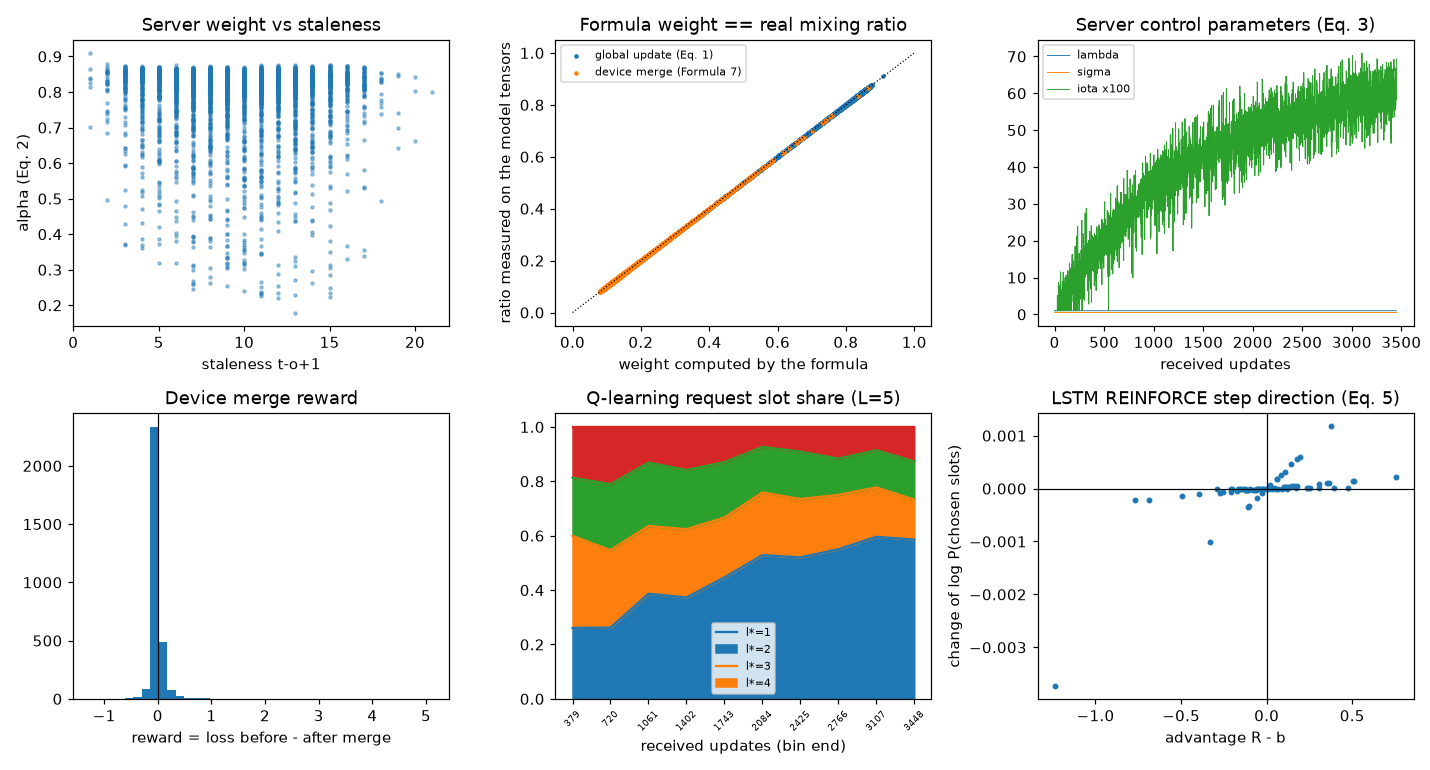
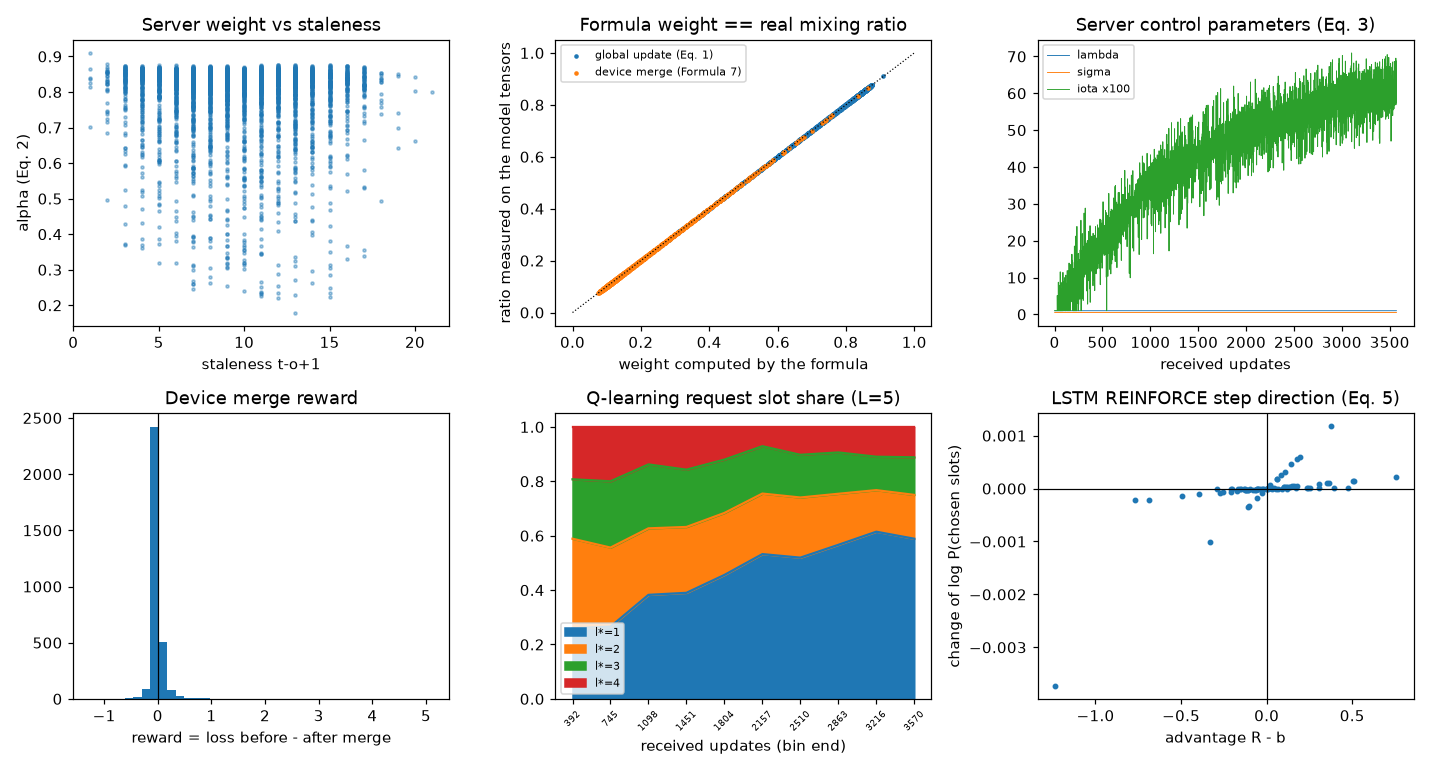
verify_fedasmu: fix Q-slot legend; refresh partial verification

diff --git a/scripts/verify_fedasmu.py b/scripts/verify_fedasmu.py
@@ -258,10 +258,12 @@ def figure(path, acc, m, q, mt, cfg):
         qq = q.copy()
         qq["bin"] = pd.cut(qq.received, 10)
         sh = qq.groupby("bin", observed=True).request_after.value_counts(normalize=True).unstack().fillna(0)
+        sh.columns = [f"l*={int(c)}" for c in sh.columns]
+        sh.index = [f"{int(b.right)}" for b in sh.index]
         sh.plot.area(ax=a, legend=True)
         a.set_xticks(range(len(sh)))
-        a.set_xticklabels([f"{int(b.right)}" for b in sh.index], fontsize=6, rotation=45)
-        a.legend([f"l*={int(c)}" for c in sh.columns], fontsize=7)
+        a.set_xticklabels(sh.index, fontsize=6, rotation=45)
+        a.legend(fontsize=7, loc="lower left")
     a.set_xlabel("received updates (bin end)")
     a.set_title(f"Q-learning request slot share (L={L})")
     a = ax[1, 2]

diff --git a/results/verification/partial_appendix_lenet5_cifar10_fedasmu_s0/report.md b/results/verification/partial_appendix_lenet5_cifar10_fedasmu_s0/report.md
@@ -1,30 +1,30 @@
 # Verification of appendix_lenet5_cifar10_fedasmu_s0
 
-Run status: RUNNING; 3450 logged updates. Result: **ALL CHECKS PASSED** (24/24).
+Run status: RUNNING; 3570 logged updates. Result: **ALL CHECKS PASSED** (24/24).
 
 | ID | Check | Paper | Rows | Max error | Tolerance | Result | Note |
 |---|---|---|---|---|---|---|---|
-| S1 | staleness tau = t - o + 1 | Algorithm 1 l.9 | 3450 | 0.0e+00 | 0e+00 | PASS |  |
-| S2 | update discarded iff tau > 99 | Algorithm 1 l.9-10 | 3450 |  |  | PASS | discarded: 0 |
-| S3 | xi = lam/(sqrt(t)(t-o+1)^sig) + iota | Eq. 2 | 3450 | 0.0e+00 | 1e-09 | PASS |  |
-| S4 | alpha = mu*xi/(1+mu*xi) | Eq. 2 | 3450 | 0.0e+00 | 1e-09 | PASS |  |
-| S5 | global model w_{t+1} = (1-alpha) w_t + alpha w_i, measured on the tensors: |w_{t+1}-w_t|/|w_i-w_t| = alpha | Eq. 1 | 3450 | 1.3e-06 | 1e-04 | PASS | max relative residual of the whole parameter vector 0.0e+00 |
-| S6 | dF/dlam, dF/dsig, dF/diota (chain rule through alpha) | Eq. 3 + appendix A | 3350 | 2.8e-17 | 1e-09 | PASS |  |
-| S7 | lam/sig/iota <- x - eta_x * dF/dx | Eq. 3 | 3350 | 0.0e+00 | 1e-09 | PASS | first upload of a device has no previous update: 100 rows, parameters unchanged (OK) |
-| S8 | per-device lam/sig: value before an upload == value after its previous upload; start at lam0/sig0 | Algorithm 1 (state per device) | 3450 | 0.0e+00 | 1e-12 | PASS |  |
-| D1 | request slot l* in 1..L-1 (L = 5) | Algorithm 2 l.4 | 3450 |  |  | PASS |  |
-| D2 | fresh model merged only if it is newer (g > o) | Algorithm 2 l.6-7 | 3055 |  |  | PASS | requests 3450, merged 3055, no newer model 395 |
-| D3 | phi = gamma/sqrt(g) * (1 - upsilon/sqrt(g-o+1)) | Formula 8 | 3055 | 0.0e+00 | 1e-09 | PASS |  |
-| D4 | beta = mu*phi/(1+mu*phi) | Formula 8 | 3055 | 0.0e+00 | 1e-09 | PASS |  |
-| D5 | local model after merge = (1-beta) w_local + beta w_g, measured on the tensors | Formula 7 | 3055 | 8.7e-08 | 1e-04 | PASS |  |
-| D6 | dF/dgamma, dF/dupsilon | Formula 9 + appendix A | 3055 | 1.4e-17 | 1e-09 | PASS |  |
-| D7 | gamma/upsilon <- x - eta_x * dF/dx | Formula 9 | 3055 | 0.0e+00 | 1e-09 | PASS |  |
-| D8 | per-device gamma: value before a merge == value after its previous merge; start at gamma0 | Algorithm 2 (device state) | 3055 | 0.0e+00 | 1e-12 | PASS |  |
-| D9 | reward R = loss(before merge) - loss(after merge), same mini-batch | Algorithm 2 l.11 | 3055 | 0.0e+00 | 1e-09 | PASS | R > 0 (merge lowered the loss) in 30.7% of merges |
-| Q1 | H(s,a) <- H + phi (R + psi max_a' H(s',a') - H) | Eq. 6 | 2972 | 0.0e+00 | 1e-09 | PASS |  |
-| Q2 | action add/stay/minus moves l* by +1/0/-1; device requests at the new l* | Eq. 6 (actions) | 2972 |  |  | PASS |  |
-| Q3 | epsilon-greedy: greedy choices >= 1 - epsilon = 0.90 (minus ties) | Eq. 6 (policy) | 2972 |  |  | PASS | greedy share 94.1% |
-| M1 | LSTM decides the first request slot of each device once; the device uses it | Eq. 5 | 100 |  |  | PASS | 100 devices; later trainings use Q-learning (3350 rows) |
+| S1 | staleness tau = t - o + 1 | Algorithm 1 l.9 | 3570 | 0.0e+00 | 0e+00 | PASS |  |
+| S2 | update discarded iff tau > 99 | Algorithm 1 l.9-10 | 3570 |  |  | PASS | discarded: 0 |
+| S3 | xi = lam/(sqrt(t)(t-o+1)^sig) + iota | Eq. 2 | 3570 | 0.0e+00 | 1e-09 | PASS |  |
+| S4 | alpha = mu*xi/(1+mu*xi) | Eq. 2 | 3570 | 0.0e+00 | 1e-09 | PASS |  |
+| S5 | global model w_{t+1} = (1-alpha) w_t + alpha w_i, measured on the tensors: |w_{t+1}-w_t|/|w_i-w_t| = alpha | Eq. 1 | 3570 | 1.3e-06 | 1e-04 | PASS | max relative residual of the whole parameter vector 0.0e+00 |
+| S6 | dF/dlam, dF/dsig, dF/diota (chain rule through alpha) | Eq. 3 + appendix A | 3470 | 2.8e-17 | 1e-09 | PASS |  |
+| S7 | lam/sig/iota <- x - eta_x * dF/dx | Eq. 3 | 3470 | 0.0e+00 | 1e-09 | PASS | first upload of a device has no previous update: 100 rows, parameters unchanged (OK) |
+| S8 | per-device lam/sig: value before an upload == value after its previous upload; start at lam0/sig0 | Algorithm 1 (state per device) | 3570 | 0.0e+00 | 1e-12 | PASS |  |
+| D1 | request slot l* in 1..L-1 (L = 5) | Algorithm 2 l.4 | 3570 |  |  | PASS |  |
+| D2 | fresh model merged only if it is newer (g > o) | Algorithm 2 l.6-7 | 3162 |  |  | PASS | requests 3570, merged 3162, no newer model 408 |
+| D3 | phi = gamma/sqrt(g) * (1 - upsilon/sqrt(g-o+1)) | Formula 8 | 3162 | 0.0e+00 | 1e-09 | PASS |  |
+| D4 | beta = mu*phi/(1+mu*phi) | Formula 8 | 3162 | 0.0e+00 | 1e-09 | PASS |  |
+| D5 | local model after merge = (1-beta) w_local + beta w_g, measured on the tensors | Formula 7 | 3162 | 8.7e-08 | 1e-04 | PASS |  |
+| D6 | dF/dgamma, dF/dupsilon | Formula 9 + appendix A | 3162 | 1.4e-17 | 1e-09 | PASS |  |
+| D7 | gamma/upsilon <- x - eta_x * dF/dx | Formula 9 | 3162 | 0.0e+00 | 1e-09 | PASS |  |
+| D8 | per-device gamma: value before a merge == value after its previous merge; start at gamma0 | Algorithm 2 (device state) | 3162 | 0.0e+00 | 1e-12 | PASS |  |
+| D9 | reward R = loss(before merge) - loss(after merge), same mini-batch | Algorithm 2 l.11 | 3162 | 0.0e+00 | 1e-09 | PASS | R > 0 (merge lowered the loss) in 30.7% of merges |
+| Q1 | H(s,a) <- H + phi (R + psi max_a' H(s',a') - H) | Eq. 6 | 3079 | 0.0e+00 | 1e-09 | PASS |  |
+| Q2 | action add/stay/minus moves l* by +1/0/-1; device requests at the new l* | Eq. 6 (actions) | 3079 |  |  | PASS |  |
+| Q3 | epsilon-greedy: greedy choices >= 1 - epsilon = 0.90 (minus ties) | Eq. 6 (policy) | 3079 |  |  | PASS | greedy share 94.3% |
+| M1 | LSTM decides the first request slot of each device once; the device uses it | Eq. 5 | 100 |  |  | PASS | 100 devices; later trainings use Q-learning (3470 rows) |
 | M2 | sampled decisions s_l: first s_l = 1 gives l*; P(l*) sums to 1 | Eq. 5 | 100 |  |  | PASS |  |
 | M3 | advantage = R - b (moving-average baseline) | Eq. 5 / REINFORCE | 83 | 0.0e+00 | 1e-09 | PASS |  |
 | M4 | policy-gradient step raises log P(chosen slots) when R > b and lowers it when R < b | Eq. 5 / REINFORCE | 83 |  |  | PASS | direction correct in 98.8% of updates |
